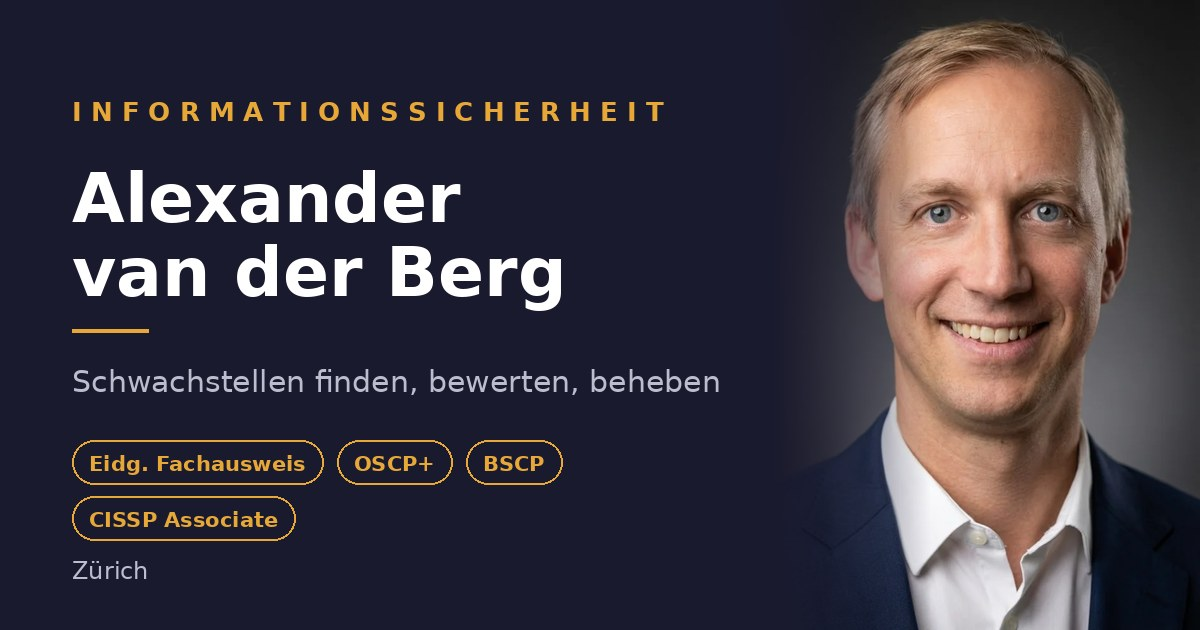
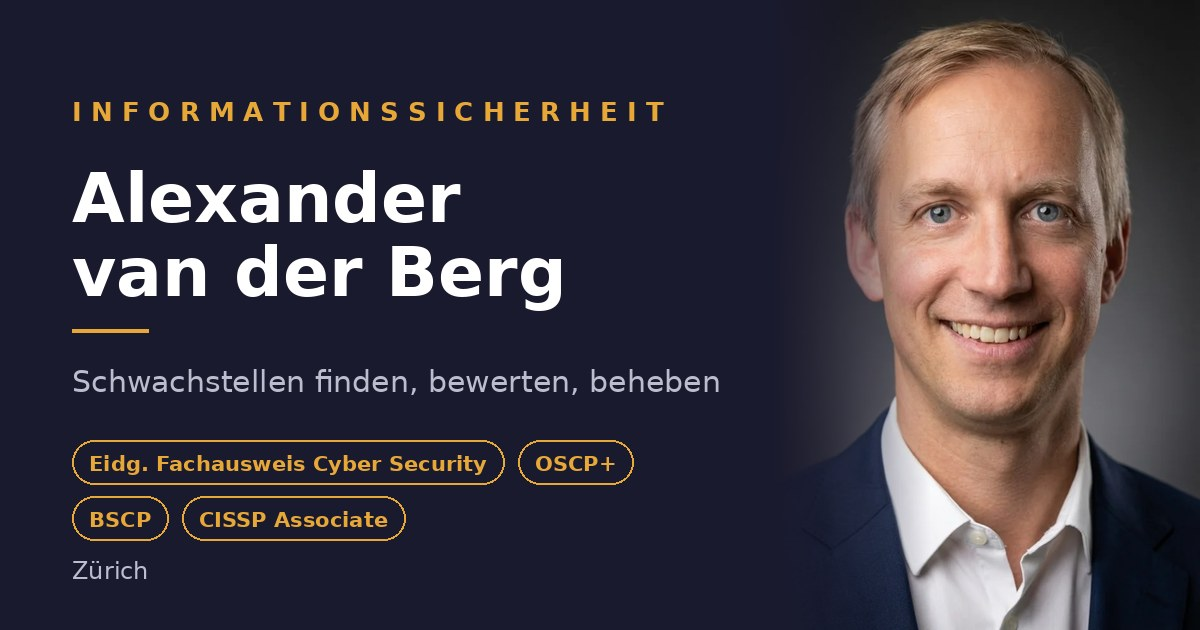
Drop dev TODOs and phone number from privacy policy, fix input contrast
The privacy policy shipped two developer comments that were readable in
the page source, one of them documenting an unfinished legal analysis.
Formspree publishes neither a Data Privacy Framework certification nor
Standard Contractual Clauses, so the paragraph they annotated is already
accurate and stays as it is; only the comments go.

The phone number was listed solely in the privacy policy and nowhere a
reader would look for it. Art. 13(1)(a) GDPR and Art. 19(2)(a) FADP ask
for contact details, not specifically a phone number, and the email
address directly above satisfies that.

Form fields failed WCAG 2.1 SC 1.4.11: the border was the only cue
marking them as controls and reached just 1.92:1 against the card. At
0.45 alpha it is 4.22:1 against the card and 3.32:1 against the field
fill. The focus state is unchanged.

The Open Graph image picks up the full badge text, matching the badge
shown on the page.

Changed region(s): [[0.0617, 0.6937, 0.555, 0.8746]]

diff --git a/privacy-policy.html b/privacy-policy.html
@@ -67,8 +67,7 @@
 
       <p>Alexander van der Berg<br>
       Zürich, Schweiz<br>
-      E-Mail: <a href="mailto:alexander@vanderberg.de">alexander@vanderberg.de</a><br>
-      Telefon: +49 40 414 312 151</p>
+      E-Mail: <a href="mailto:alexander@vanderberg.de">alexander@vanderberg.de</a></p>
 
       <p>Für Fragen zum Datenschutz und zur Ausübung Ihrer Rechte wenden Sie sich bitte per E-Mail an mich.</p>
 
@@ -100,14 +99,6 @@
 
       <p><strong>GitHub, Inc.</strong> ist unter dem EU-U.S. Data Privacy Framework und dem Swiss-U.S. Data Privacy Framework zertifiziert. Für Übermittlungen aus der Schweiz und aus dem EWR besteht damit ein anerkanntes Datenschutzniveau. Die Zertifizierung können Sie auf der offiziellen Liste unter <a href="https://www.dataprivacyframework.gov/list" target="_blank" rel="noopener noreferrer">dataprivacyframework.gov</a> nachschlagen.</p>
 
-      <!-- TODO vor dem Deploy aufloesen: Grundlage fuer Formspree pruefen.
-           1. Ist Formspree, Inc. auf dataprivacyframework.gov/list gelistet,
-              und schliesst die Zertifizierung den Swiss-U.S. DPF ein?
-           2. Falls nein: AVV mit Standardvertragsklauseln bei Formspree
-              anfordern, oder Anbieter wechseln.
-           Danach den folgenden Absatz durch die zutreffende Grundlage
-           ersetzen. Keine Grundlage behaupten, die nicht belegt ist.
-           Gleichlautend in vanderberg.de/privacy-policy.html pflegen. -->
       <p><strong>Formspree, Inc.</strong> unterliegt keinem Angemessenheitsbeschluss der Europäischen Kommission und keiner Anerkennung des Schweizer Bundesrates. Es lässt sich deshalb nicht ausschliessen, dass US-Behörden auf die übermittelten Daten zugreifen und dass Ihnen dagegen keine mit der Schweiz oder dem EWR vergleichbaren Rechtsbehelfe zur Verfügung stehen. Möchten Sie diese Übermittlung vermeiden, nutzen Sie bitte den direkten E-Mail-Kontakt anstelle des Formulars.</p>
 
       <h2>6 Ihre Rechte</h2>
@@ -122,9 +113,6 @@
 
       <h2>7 Datensicherheit</h2>
 
-      <!-- Wenn die Konten bei GitHub und Formspree mit Zwei-Faktor-
-           Authentifizierung geschuetzt sind, kann das hier ergaenzt werden.
-           Bewusst nicht behauptet, solange es nicht geprueft ist. -->
       <p>Die Website wird ausschliesslich über HTTPS ausgeliefert. Sie bindet keine Inhalte von Dritten ein und schränkt die zulässigen Quellen zusätzlich über eine Content Security Policy ein. Eine Übertragung über das Internet lässt sich dennoch nie vollständig absichern.</p>
 
     </div>

diff --git a/assets/styles.css b/assets/styles.css
@@ -589,10 +589,14 @@ h3 { font-size: 1.25rem; margin-bottom: 0.5rem; }
   font-weight: 500;
 }
 
+/* Rahmen 0.45 statt 0.2: der Rahmen ist das einzige Merkmal, das das Feld
+   als Bedienelement erkennbar macht, und muss deshalb nach WCAG 1.4.11
+   auf 3:1 gegen die Kartenfläche kommen. 0.2 ergab nur 1.92:1, 0.45
+   ergibt 4.22:1 gegen die Karte und 3.32:1 gegen die Feldfüllung. */
 .form-group input,
 .form-group textarea {
   background: rgba(255,255,255,0.08);
-  border: 1px solid rgba(255,255,255,0.2);
+  border: 1px solid rgba(255,255,255,0.45);
   border-radius: var(--radius);
   padding: 0.7rem 1rem;
   color: #fff;
